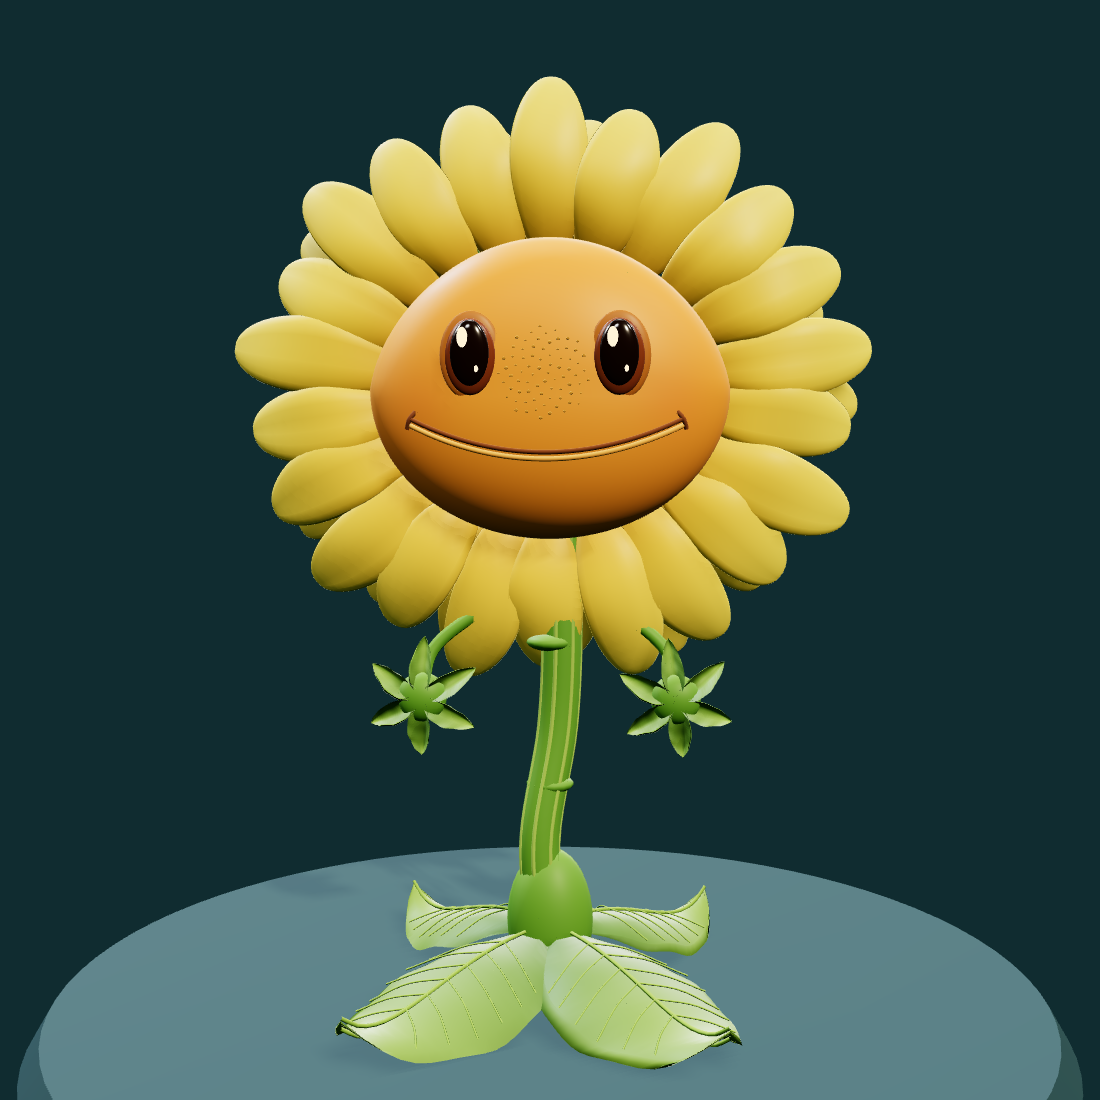
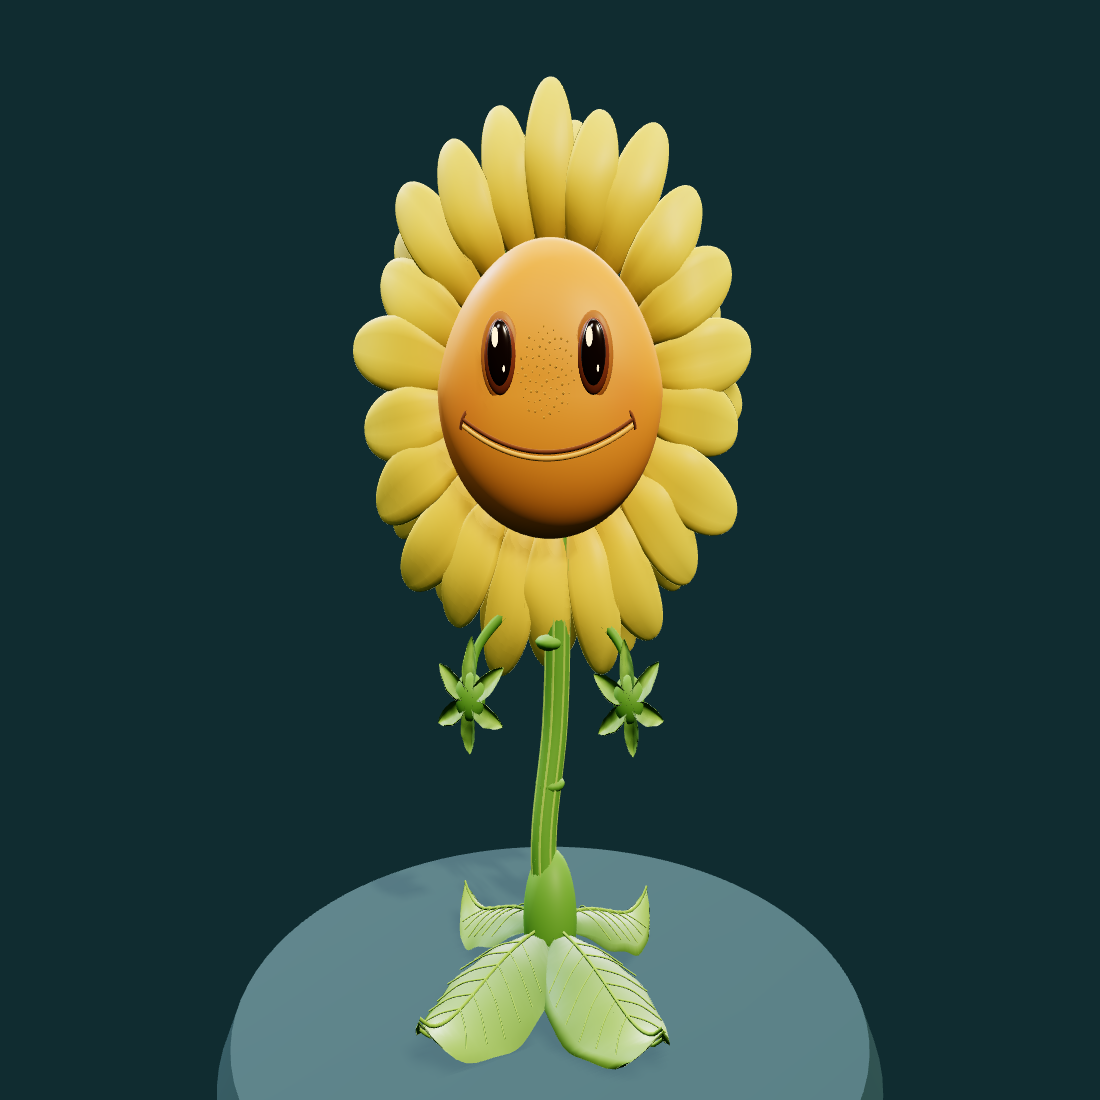
Garden Defense v1.12.2: finalize plant heroes and squad integration
Publish the final Sunflower and Cactus camera, HUD, lifecycle, documentation, and preview refinements. All five plant and squad browser suites pass against the release tree. Ongoing zombie edits are excluded.

Changed region(s): [[0.0, 0.0618, 0.9891, 1.0]]

diff --git a/index.html b/index.html
@@ -218,7 +218,7 @@ import { mergeGeometries } from 'three/addons/utils/BufferGeometryUtils.js';
 import { RoundedBoxGeometry } from 'three/addons/geometries/RoundedBoxGeometry.js';
 
 // Shown bottom-right; bump on every release (matches the git tag)
-const VERSION = 'v1.12.1';
+const VERSION = 'v1.12.2';
 
 // =====================================================================
 // CONFIG — every tuning number lives here

diff --git a/docs/cactus-ai.md b/docs/cactus-ai.md
@@ -35,4 +35,4 @@ All decision thresholds live in `CONFIG.cactus.ai`. Brain state and combat resou
 
 `node tests/cactus.cjs` runs browser scenarios against the real game module. Playwright must resolve through normal Node resolution (or `NODE_PATH`); `PLAYWRIGHT_CHROMIUM_EXECUTABLE` selects an installed Chromium. Set `CACTUS_SCREENSHOTS` to an output directory to render a portrait of the actual rig.
 
-Coverage includes model detail, movement/jump, primary/critical damage, reload, mine arming and recharge, shallow-slope Tallnut placement and collision/destruction, remote flight and body rooting, Corn Strike cooldown, return/death/reset/handoff, long-range sniping, close-threat retreat/mines, defensive patrol bounds, and blocked firing rays.
+Coverage includes 41 mechanics/AI assertions: model detail, movement/jump, primary/critical damage, reload, mine arming and recharge, shallow-slope Tallnut placement and collision/destruction, remote flight and body rooting, independent drone ammunition and overheating/recovery, enemy fire destroying the drone, Corn Strike cooldown, return/death/reset/handoff, long-range sniping, close-threat retreat/mines, defensive patrol bounds, and blocked firing rays. A second browser run exercises the actual animation loop with all four classes, real Q/E/F keyboard deployment, drone altitude controls, return and Tab handoff. Browser script and shader errors fail the suite.

diff --git a/docs/sunflower-ai.md b/docs/sunflower-ai.md
@@ -5,6 +5,7 @@ The sculpted model is entirely procedural: 39 closed petal volumes with longitud
 grooves, a vertex-colored face with glossy amber-rimmed eyes, smile and freckles,
 a ribbed stem, six-point leaf hands, four veined feet, overlapping calyx sepals,
 and spiral florets on the back of the head. Each rig owns its materials and expression.
+The shoulder camera is offset for her broad crown so it stays clear of the reticle.
 
 ## Controls and kit
 
@@ -65,4 +66,5 @@ deploy delay, beam damage/ammo/HUD, cancellation cooldown, sundrop healing and f
 expiry, medic persistence under pressure, changing patients after full healing,
 supporting other Sunflowers, healthy escort, following beyond the garden, faster
 revival, death cleanup, respawning and control handoff. It also renders optional
-front/back portraits with `SUNFLOWER_SCREENSHOTS=docs`.
+front/back portraits and a gameplay frame with `SUNFLOWER_SCREENSHOTS=docs`, checking
+that the gameplay camera remains finite and the crown stays outside the reticle.

diff --git a/AGENTS.md b/AGENTS.md
@@ -4,7 +4,7 @@
 Third-person wave-defense browser game inspired by *Plants vs Zombies: Garden Warfare 2 — Garden Ops*.
 The player is a plant hero defending a statue in a huge beautifully made map from waves of zombies.
 
-## Current state (v1.12.1)
+## Current state (v1.12.2)
 - Single file: `index.html`, three.js via CDN (importmap, plus `three/addons/` for RoomEnvironment). No build step.
 - Rendering: ACES tone mapping, soft shadows (sun follows the player), PMREM room environment for the hero's PBR materials.
 - Statue: box at center, 1000 HP, world + HUD health bar. Statue at 0 HP = lose.
